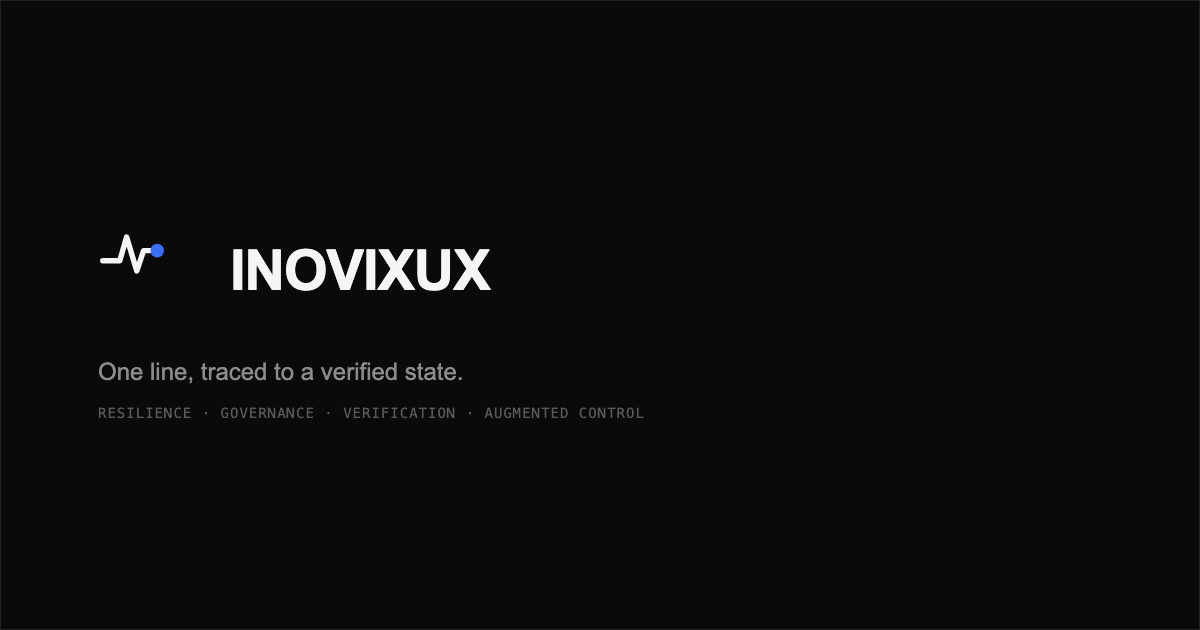
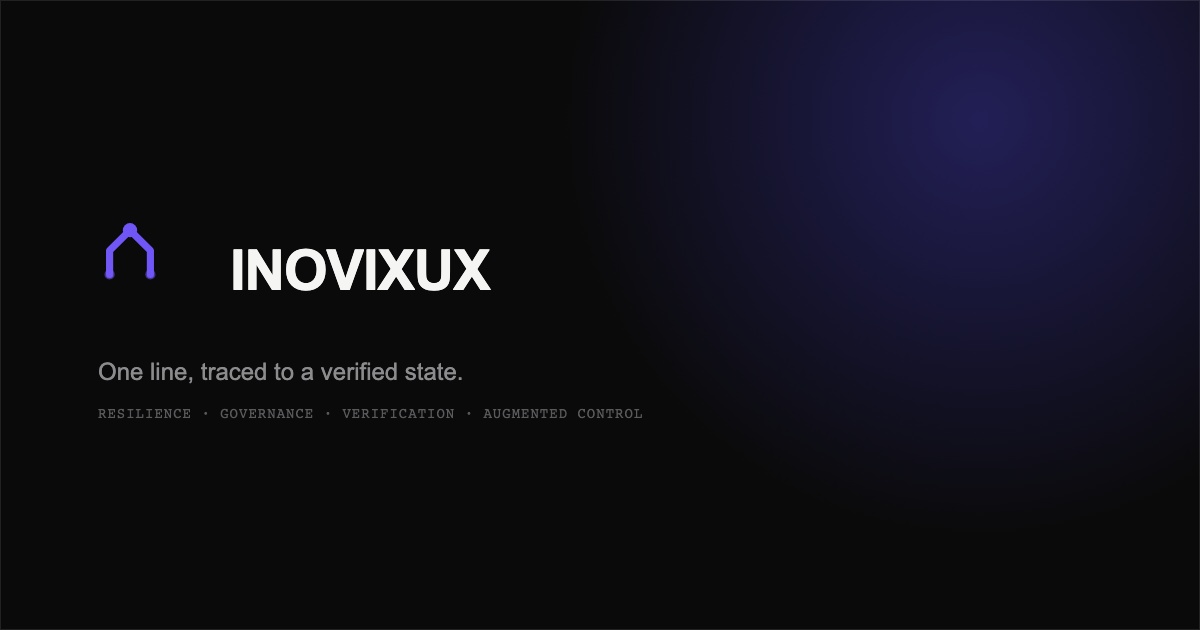
INO-31: pivot accent register to Adaptive Synapse (violet/indigo gradient + glow), matching vetra-app.vercel.app reference
Board named https://vetra-app.vercel.app/ as the target visual register twice
(2026-09-06 comment, repeated 2026-09-07 rejection: 'not similar to the URL
which i have shared') and rejected the flat monochrome Verified Line accent
both times. This round executes the pivot that was logged as an open
either/or decision but never actioned:

- New logo mark: connected-node/arch glyph (was a thin checkmark line),
  violet (#7C5CFC) -> indigo (#4F46E5) gradient fill, across all 8 SVG
  variants (mark on-dark/on-light, mono black/white, lockup dark/light,
  favicon, social card) plus regenerated PNG exports (favicon 32/512/1024,
  1200x630 social card) rendered from the new SVGs via headless Chromium.
- tokens.css: added violet/indigo primitives, --ino-gradient-accent,
  --ino-glow-accent; --ino-color-accent now points at violet instead of
  Signal Blue. Structure, type, space, density-mode tokens unchanged.
- Angular app: hero component gets an ambient radial glow field (behind
  copy/dashboard, respects prefers-reduced-motion/prefers-contrast), nav +
  footer logos swapped to the new gradient mark, primary CTA now carries
  the accent gradient directly, dashboard panel gets a subtle accent-tinted
  lift shadow.
- ng build verified passing; local screenshot confirms the glow/gradient
  register renders as intended before push.

Layout, copy, density-mode structure, and RAG semantic colors untouched —
this is an accent/mark swap only, per the token contract's own swap
convention.

diff --git a/web/src/tokens.css b/web/src/tokens.css
@@ -1,6 +1,12 @@
 /*
  * INOVIXUX — Design Token Contract (Phase 2)
- * Concept: Verified Line — approved 2026-09-06 (INO-31, plan revision 7)
+ * Concept: Verified Line, structure — Adaptive Synapse, accent register
+ * (INO-31, plan revision 8 — pivot 2026-09-07: board named
+ * https://vetra-app.vercel.app/ as the target register twice and rejected
+ * the flat monochrome accent both times; this swaps the single accent
+ * token from flat Signal Blue to a violet→indigo gradient/glow pair,
+ * matching Vetra's dark-glow SaaS register, without touching layout,
+ * type, or the density-mode structure below.)
  *
  * This file is the single source of truth for color, type, space, radius,
  * elevation, and motion. Angular consumes it as-is: drop it into
@@ -11,8 +17,9 @@
  * component :host blocks, plain HTML collateral (letterhead/deck exports),
  * and this repo's own mockups.
  *
- * Swapping identity: change ONLY --ino-color-accent (and, if a different
- * concept is chosen later, --ino-font-display / --ino-font-mono) — see
+ * Swapping identity: change ONLY --ino-color-accent / --ino-gradient-accent
+ * / --ino-glow-accent (and, if a different concept is chosen later,
+ * --ino-font-display / --ino-font-mono) — see
  * docs/brand/03-vetra-structural-foundation.md for the Aperture Mark /
  * Ledger Seal swap values. Nothing else in this file should need to change
  * for a mark swap.
@@ -35,7 +42,9 @@
   --ino-primitive-line: rgba(255, 255, 255, 0.10);
   --ino-primitive-line-soft: rgba(255, 255, 255, 0.06);
 
-  --ino-primitive-blue-500: #3B6EF6;   /* Verified Line accent (Signal Blue) */
+  --ino-primitive-blue-500: #3B6EF6;   /* retired accent (Signal Blue) — kept only for diffing/rollback, unreferenced below */
+  --ino-primitive-violet-500: #7C5CFC; /* Adaptive Synapse accent — Deep Tech Violet */
+  --ino-primitive-indigo-500: #4F46E5; /* Adaptive Synapse accent — Electric Indigo */
   --ino-primitive-green-500: #3A9B6B;
   --ino-primitive-red-500: #C24C43;
   --ino-primitive-amber-500: #B98A3C;
@@ -55,8 +64,11 @@
   --ino-color-border: var(--ino-primitive-line);
   --ino-color-border-soft: var(--ino-primitive-line-soft);
 
-  --ino-color-accent: var(--ino-primitive-blue-500);      /* swap token */
-  --ino-color-on-accent: #000000;                         /* verified 4.75:1, README §Contrast */
+  --ino-color-accent: var(--ino-primitive-violet-500);    /* swap token */
+  --ino-color-accent-secondary: var(--ino-primitive-indigo-500);
+  --ino-color-on-accent: #FFFFFF;                         /* provisional — recheck against README §Contrast before press-ready sign-off */
+  --ino-gradient-accent: linear-gradient(135deg, var(--ino-primitive-violet-500), var(--ino-primitive-indigo-500));
+  --ino-glow-accent: radial-gradient(circle, rgba(124, 92, 252, 0.35), transparent 70%);
 
   --ino-color-success: var(--ino-primitive-green-500);
   --ino-color-on-success: #000000;                        /* 6.08:1 */

diff --git a/web/src/app/app.html b/web/src/app/app.html
@@ -2,8 +2,16 @@
   <ino-nav [links]="navLinks" ctaLabel="Request demo" (ctaClick)="onCta()">
     <span logo class="ino-logo">
       <svg width="20" height="20" viewBox="0 0 20 20" aria-hidden="true">
-        <path d="M2 12 L7 12 L9 5 L12 15 L14 9 L18 9" stroke="currentColor" stroke-width="1.6" fill="none" stroke-linecap="round" stroke-linejoin="round" />
-        <circle cx="18" cy="9" r="2" fill="var(--ino-color-accent, #3B6EF6)" />
+        <defs>
+          <linearGradient id="inoNavGrad" x1="2" y1="16" x2="18" y2="3" gradientUnits="userSpaceOnUse">
+            <stop offset="0" stop-color="#7C5CFC" />
+            <stop offset="1" stop-color="#4F46E5" />
+          </linearGradient>
+        </defs>
+        <path d="M4 16 L4 9 L10 3 L16 9 L16 16" stroke="url(#inoNavGrad)" stroke-width="2.1" fill="none" stroke-linecap="round" stroke-linejoin="round" />
+        <circle cx="10" cy="3" r="2.1" fill="url(#inoNavGrad)" />
+        <circle cx="4" cy="16" r="1.5" fill="url(#inoNavGrad)" opacity="0.55" />
+        <circle cx="16" cy="16" r="1.5" fill="url(#inoNavGrad)" opacity="0.55" />
       </svg>
       <span>INOVIXUX</span>
     </span>
@@ -56,8 +64,16 @@
   <ino-footer [columns]="footerColumns">
     <span logo class="ino-logo ino-logo--footer">
       <svg width="20" height="20" viewBox="0 0 20 20" aria-hidden="true">
-        <path d="M2 12 L7 12 L9 5 L12 15 L14 9 L18 9" stroke="currentColor" stroke-width="1.6" fill="none" stroke-linecap="round" stroke-linejoin="round" />
-        <circle cx="18" cy="9" r="2" fill="var(--ino-color-accent, #3B6EF6)" />
+        <defs>
+          <linearGradient id="inoFootGrad" x1="2" y1="16" x2="18" y2="3" gradientUnits="userSpaceOnUse">
+            <stop offset="0" stop-color="#7C5CFC" />
+            <stop offset="1" stop-color="#4F46E5" />
+          </linearGradient>
+        </defs>
+        <path d="M4 16 L4 9 L10 3 L16 9 L16 16" stroke="url(#inoFootGrad)" stroke-width="2.1" fill="none" stroke-linecap="round" stroke-linejoin="round" />
+        <circle cx="10" cy="3" r="2.1" fill="url(#inoFootGrad)" />
+        <circle cx="4" cy="16" r="1.5" fill="url(#inoFootGrad)" opacity="0.55" />
+        <circle cx="16" cy="16" r="1.5" fill="url(#inoFootGrad)" opacity="0.55" />
       </svg>
       <span>INOVIXUX</span>
       <p>KYB vendor underwriting, verified by a human, traced by the system.</p>

diff --git a/web/src/app/components/hero/ino-hero.component.scss b/web/src/app/components/hero/ino-hero.component.scss
@@ -1,8 +1,32 @@
 .ino-hero {
+  position: relative;
   display: grid;
   grid-template-columns: 1fr 1fr;
   gap: var(--ino-space-9);
   padding: var(--ino-space-11) var(--ino-space-7);
+  overflow: hidden;
+}
+
+// Ambient glow field, Vetra-register: soft radial wash behind the hero
+// content, not a hard gradient panel. Decorative only — sits behind
+// copy/dashboard via z-index, never affects layout or reading order.
+.ino-hero::before {
+  content: "";
+  position: absolute;
+  top: -30%;
+  right: -15%;
+  width: 60%;
+  height: 160%;
+  background: var(--ino-glow-accent);
+  filter: blur(90px);
+  pointer-events: none;
+  z-index: 0;
+}
+
+.ino-hero__copy,
+.ino-hero__content {
+  position: relative;
+  z-index: 1;
 }
 
 .ino-hero__eyebrow {
@@ -39,5 +63,13 @@
 
   .ino-hero__headline {
     font-size: var(--ino-type-display-size-sm);
+  }
+}
+
+@media (prefers-reduced-motion: reduce), (prefers-contrast: more) {
+  // Glow is decorative; drop it rather than fight a high-contrast or
+  // reduced-motion user preference for a busier background.
+  .ino-hero::before {
+    display: none;
   }
 }

diff --git a/web/src/app/components/nav/ino-nav.component.scss b/web/src/app/components/nav/ino-nav.component.scss
@@ -29,9 +29,12 @@
 // .btn.primary is the shared button pattern from the v5 foundation build —
 // background: on-surface / color: surface (inverted chip), reused as-is here
 // rather than re-declared, per angular-theme-contract.md §1.
+// Primary CTA carries the accent gradient directly (Adaptive Synapse pivot)
+// rather than the inverted on-surface chip — this is the one control on
+// the page that should read as "the accent," matching the Vetra reference.
 .btn.primary {
-  background: var(--ino-color-on-surface);
-  color: var(--ino-color-surface);
+  background: var(--ino-gradient-accent);
+  color: var(--ino-color-on-accent);
   border: none;
   border-radius: var(--ino-radius-md);
   padding: var(--ino-space-2) var(--ino-space-4);
@@ -41,6 +44,6 @@
   transition: opacity var(--ino-motion-duration-fast) var(--ino-motion-easing-standard);
 
   &:hover {
-    opacity: 0.85;
+    opacity: 0.88;
   }
 }

diff --git a/web/src/app/app.scss b/web/src/app/app.scss
@@ -34,6 +34,10 @@
   background: var(--ino-color-surface-raised);
   overflow: hidden;
   margin-top: var(--ino-space-9);
+  // Accent-tinted lift so the dashboard reads as part of the glow field
+  // behind it rather than a flat card dropped on top — same accent token
+  // as the hero glow, just far more subtle at rest.
+  box-shadow: 0 30px 70px -35px rgba(124, 92, 252, 0.35), var(--ino-elevation-1);
 }
 
 .dash-head {
